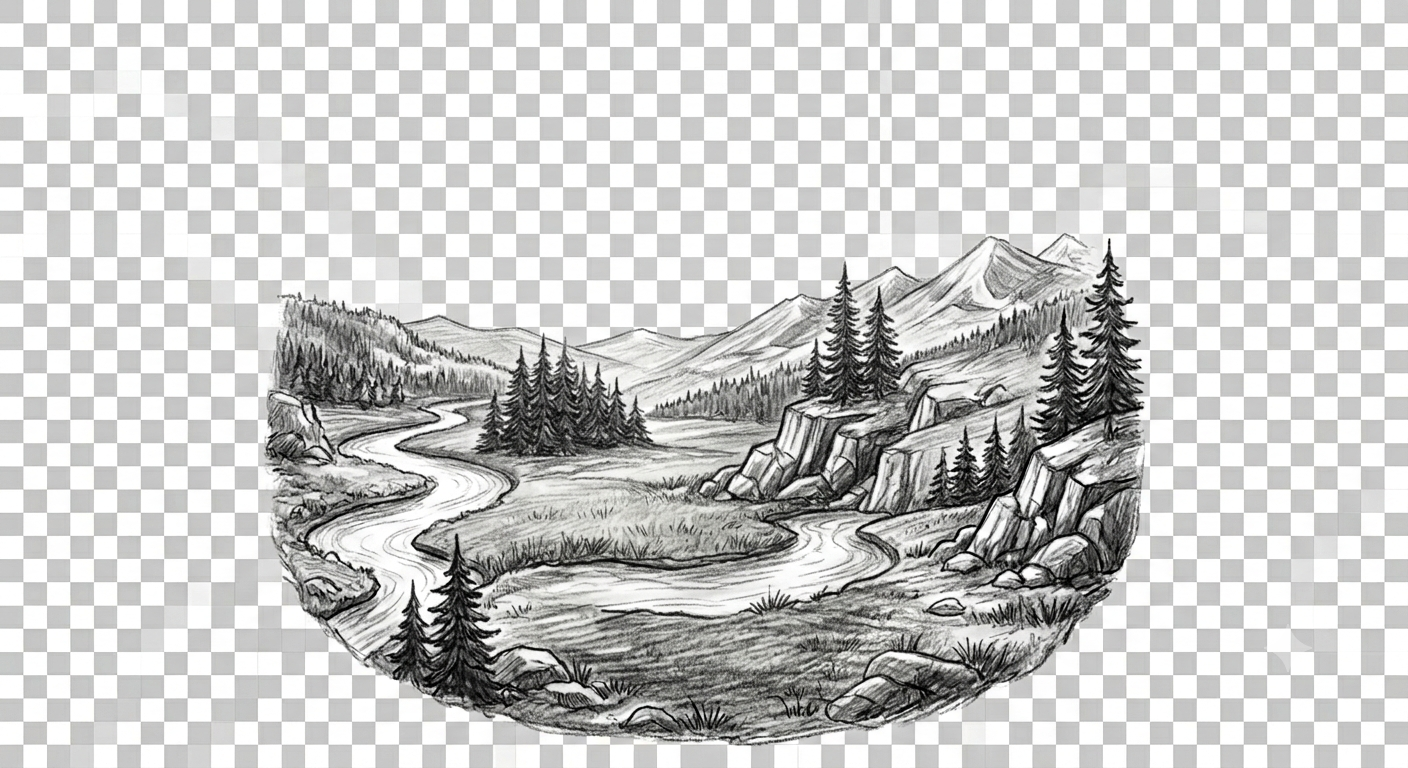
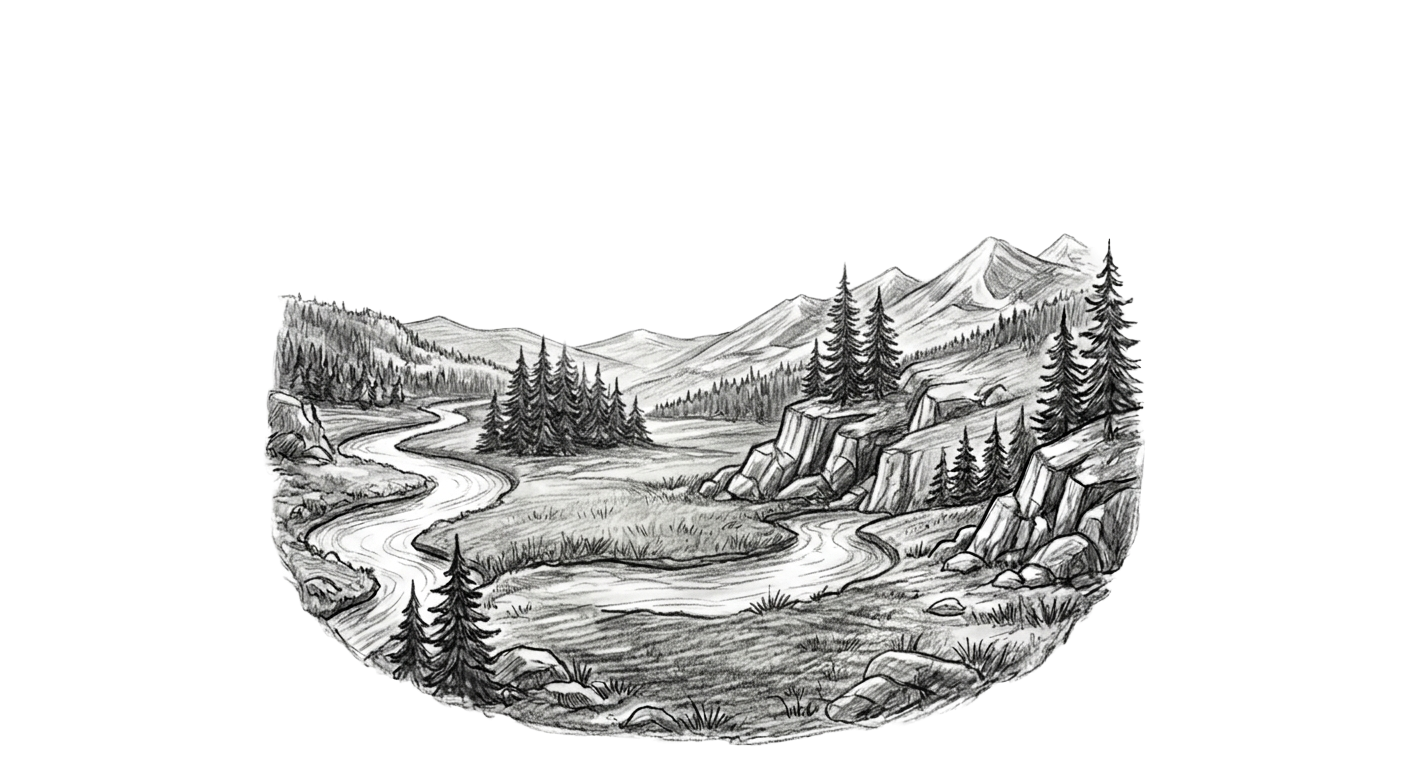
feature/img

diff --git a/index.html b/index.html
@@ -87,7 +87,7 @@
             <h3>Too friendly old people</h3>
             <p>You can find any lod people there is so friendly that you cannot go home onece you start talking to them.</p>
 
-            <img src="images/misosoup.png" alt="miso soup made by old people in Japan">
+            <img src="images/miso_soup.png" alt="miso soup made by old people in Japan">
             <h3>Homemade Japanese food</h3>
             <p>It would not be fancy but warm enough to make you feel nostalgic.</p>
 